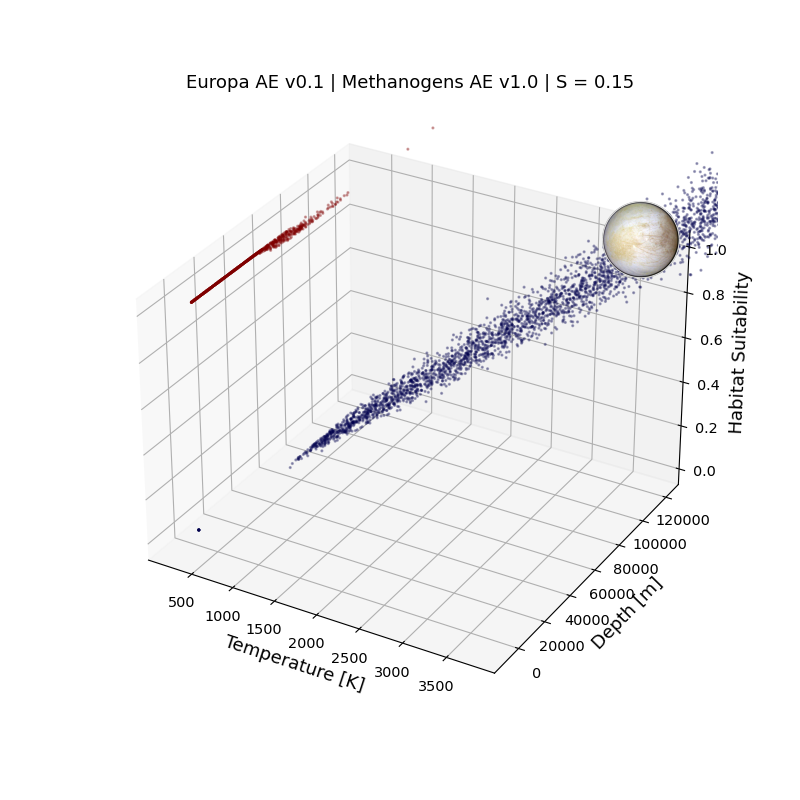
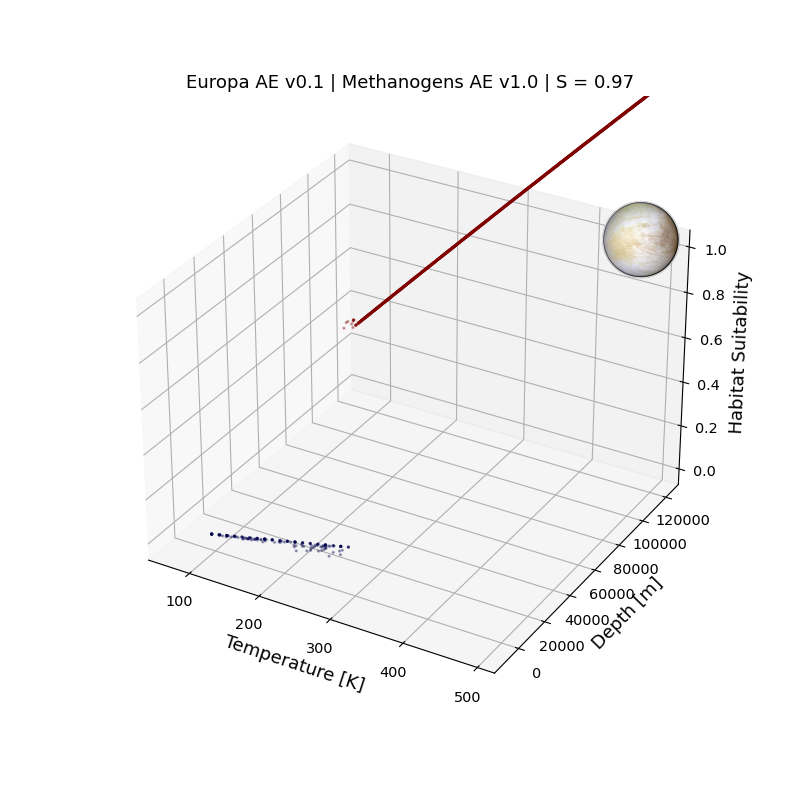
updated europa thermal profile

diff --git a/Habitats/europamodules.py b/Habitats/europamodules.py
@@ -159,26 +159,49 @@ def europamodules():
     ModuleTemp.add_input('Surface_Temperature')
     ModuleTemp.add_output('Temperature')
     def _execute(self):
-        mu_tgrad_ice, sigma_tgrad_ice = 0.001, 0.00 # mean and standard deviation, in K/m of the temperature gradient in ice
-        keyparams.Thermal_Gradient_Ice = np.random.normal(mu_tgrad_ice, sigma_tgrad_ice, 1)[0]
+        #mu_tgrad_ice, sigma_tgrad_ice = 0.001, 0.00 # mean and standard deviation, in K/m of the temperature gradient in ice
+        #keyparams.Thermal_Gradient_Ice = np.random.normal(mu_tgrad_ice, sigma_tgrad_ice, 1)[0]
+        # set thermal gradient in ice based on linear function btwn surface and user-set boundary temp
+        keyparams.WaterIceBoundary_Temperature = 273.15
+        keyparams.Thermal_Gradient_Ice = (keyparams.WaterIceBoundary_Temperature - keyparams.Surface_Temperature) / keyparams.Ice_Thickness
+        
+        
         #print([keyparams.Depth,keyparams.Ice_Thickness])
         keyparams.Interior_Temperature= keyparams.Surface_Temperature + np.min([keyparams.Depth,keyparams.Ice_Thickness]) * keyparams.Thermal_Gradient_Ice
 
-        mu_tgrad_water, sigma_tgrad_water = 0.005, 0.001 # mean and standard deviation, in K/m of the temperature gradient in water ocean
-        keyparams.Thermal_Gradient_Water = np.random.normal(mu_tgrad_water, sigma_tgrad_water, 1)[0]
-
-
-        # Calculate the water column above current depth (not the ice) and add the temperature difference:
-        if keyparams.Depth > keyparams.Ice_Thickness:
-            keyparams.Interior_Temperature += (keyparams.Depth - keyparams.Ice_Thickness) * keyparams.Thermal_Gradient_Water
-        # Interior_Temperature calculated as a single-value array so need to pull that single-value out before saving
-        keyparams.Interior_Temperature = keyparams.Interior_Temperature
-        keyparams.Temperature = keyparams.Interior_Temperature
+        #mu_tgrad_water, sigma_tgrad_water = 0.005, 0.001 # mean and standard deviation, in K/m of the temperature gradient in water ocean
+        #keyparams.Thermal_Gradient_Water = np.random.normal(mu_tgrad_water, sigma_tgrad_water, 1)[0]
         
-        # Enforce physical limits:
-        freezing_point = 273. # freezing point of water in [Kelvin]
-        if keyparams.Temperature < freezing_point:
-            keyparams.Temperature = freezing_point # the ocean temperature (at the surface of the ocean) can't be below the freezing point
+        # calculate the temperature at the very bottom of the ice layer
+        # this will be the starting point for the water temperature profile
+        #keyparams.Surface_Temperature + (keyparams.Ice_Thickness*keyparams.Thermal_Gradient_Ice)
+        # calculate the ocean thermal profile following our quadratic parameterization of the Vance+ profiles:
+        # T = a*x^2 + m*x + b; a,m are fitted coefficients; x = depth below water/ice boundary; b = temp at boundary
+        a = 0.000000000148
+        m = 0.00001102
+        
+        if keyparams.Depth <= keyparams.Ice_Thickness:
+            # here, we're inside the ice:
+            keyparams.Interior_Temperature = keyparams.Surface_Temperature + (keyparams.Depth*keyparams.Thermal_Gradient_Ice)
+        elif keyparams.Depth > keyparams.Ice_Thickness:
+            # here, we're inside the ocean
+            relative_depth = abs(keyparams.Depth - keyparams.Ice_Thickness)
+            keyparams.Interior_Temperature = (a*relative_depth**2) + (m*relative_depth) + keyparams.WaterIceBoundary_Temperature
+        #keyparams.Interior_Temperature = keyparams.Interior_Temperature
+        keyparams.Temperature = keyparams.Interior_Temperature
+        # note the above will always be > the boundary temperature, so don't need to enforce a lower-T-limit boundary condition
+        
+#         # Calculate the water column above current depth (not the ice) and add the temperature difference:
+#         if keyparams.Depth > keyparams.Ice_Thickness:
+#             keyparams.Interior_Temperature += (keyparams.Depth - keyparams.Ice_Thickness) * keyparams.Thermal_Gradient_Water
+#         # Interior_Temperature calculated as a single-value array so need to pull that single-value out before saving
+#         keyparams.Interior_Temperature = keyparams.Interior_Temperature
+#         keyparams.Temperature = keyparams.Interior_Temperature
+        
+#         # Enforce physical limits:
+#         freezing_point = 273. # freezing point of water in [Kelvin]
+#         if keyparams.Temperature < freezing_point:
+#             keyparams.Temperature = freezing_point # the ocean temperature (at the surface of the ocean) can't be below the freezing point
 
     ModuleTemp.execute = types.MethodType(_execute, ModuleTemp)
     ModuleTemp.define_ID(m_id)

diff --git a/Analyses/viseuropa.py b/Analyses/viseuropa.py
@@ -94,28 +94,48 @@ def QHFvisualize(screen,sf,Suitability_Distribution,Temperature_Distribution,Bon
 
     # Multi-plot showing distributions of key parameters
     # This will need to be optimizable from the module loaded, but now I specify the parameters
-    N_iter = np.floor(len(Temperature_Distribution)).astype(int) # set number of iterations based on length of a posterior distribution array
-    fig=plt.figure(figsize=(4.00, 2.00), dpi=400)
-    fig, axs = plt.subplots(2, 2)
-    axs[0, 0].hist(Temperature_Distribution,bins=np.clip(math.floor(N_iter/60.), 5, 30))
-    axs[0, 0].set_title('Temperature [K]')
-    axs[0,0].set(xlabel='[K]', ylabel='y-label')
-    # Matthew here -- I've commented these out to avoid errors because they don't really make sense for Europa,
-    #    and aren't even calculated properly for such a plot like this anyways
-    #axs[0, 1].hist(Surface_Pressure_Distribution, bins=np.clip(math.floor(N_iter/60.), 5, 30))
-    #axs[0, 1].set_title('Surface Pressure [bar]')
-    #axs[1, 0].hist(BondAlbedo_Distribution, bins=np.clip(math.floor(N_iter/60.), 5, 30))
-    #axs[1, 0].set_title('Bond Albedo')
-    #axs[1, 1].hist(GreenHouse_Distribution, bins=np.clip(math.floor(N_iter/60.), 5, 30))
-    #axs[1, 1].set_title('Greenhouse Warming [K]')
-    #fig.tight_layout()
+#     N_iter = np.floor(len(Temperature_Distribution)).astype(int) # set number of iterations based on length of a posterior distribution array
+#     fig=plt.figure(figsize=(4.00, 2.00), dpi=400)
+#     fig, axs = plt.subplots(2, 2)
+#     axs[0, 0].hist(Temperature_Distribution,bins=np.clip(math.floor(N_iter/60.), 5, 30))
+#     axs[0, 0].set_title('Temperature [K]')
+#     axs[0,0].set(xlabel='[K]', ylabel='y-label')
+#     # Matthew here -- I've commented these out to avoid errors because they don't really make sense for Europa,
+#     #    and aren't even calculated properly for such a plot like this anyways
+#     #axs[0, 1].hist(Surface_Pressure_Distribution, bins=np.clip(math.floor(N_iter/60.), 5, 30))
+#     #axs[0, 1].set_title('Surface Pressure [bar]')
+#     #axs[1, 0].hist(BondAlbedo_Distribution, bins=np.clip(math.floor(N_iter/60.), 5, 30))
+#     #axs[1, 0].set_title('Bond Albedo')
+#     #axs[1, 1].hist(GreenHouse_Distribution, bins=np.clip(math.floor(N_iter/60.), 5, 30))
+#     #axs[1, 1].set_title('Greenhouse Warming [K]')
+#     #fig.tight_layout()
 
-    #for ax in axs.flat:
-    #    ax.set(xlabel='x-label', ylabel='y-label')
+#     #for ax in axs.flat:
+#     #    ax.set(xlabel='x-label', ylabel='y-label')
 
-    # Hide x labels and tick labels for top plots and y ticks for right plots.
-    #for ax in axs.flat:
-    #    ax.label_outer()
+#     # Hide x labels and tick labels for top plots and y ticks for right plots.
+#     #for ax in axs.flat:
+#     #    ax.label_outer()
+#     plt.show()
+    
+    ## plot the thermal profile
+    Depth_Distribution = np.asarray(Depth_Distribution)     
+    
+    fig, ax = plt.subplots(figsize=(8,4), dpi=400)
+    niters = len(np.where(Depth_Distribution == max(Depth_Distribution))[0])
+    avgdepths = np.average(np.asarray(Depth_Distribution).reshape(-1, niters), axis=1) 
+    ax.plot(Depth_Distribution[::niters], Temperature_Distribution[::niters], c='black', zorder=10, alpha=0.25, label='Temperature Profiles')
+    avgtemps = np.average(np.asarray(Temperature_Distribution).reshape(-1,niters), axis=1)
+    #
+    ax.plot(avgdepths, avgtemps, c='black', zorder=10, label='Average Thermal Profile')
+    ax.axvline(keyparams.Ice_Thickness, c='lightblue')
+    ax.fill_betweenx(y=np.linspace(min(Temperature_Distribution)-50, max(Temperature_Distribution)+50, 50),
+                     x1=keyparams.Ice_Thickness, x2=0, facecolor='lightblue', alpha=0.5, edgecolor='lightblue',label='Ice')
+    ax.set_xlabel('Depth [m]', fontsize=12)
+    ax.set_xlim(0., max(Depth_Distribution)+10000)
+    ax.set_ylabel('Temperature [K]', fontsize=12)
+    ax.set_ylim(min(Temperature_Distribution)-20, max(Temperature_Distribution)+20)
+    ax.legend(loc='best')
     plt.show()
 
 
